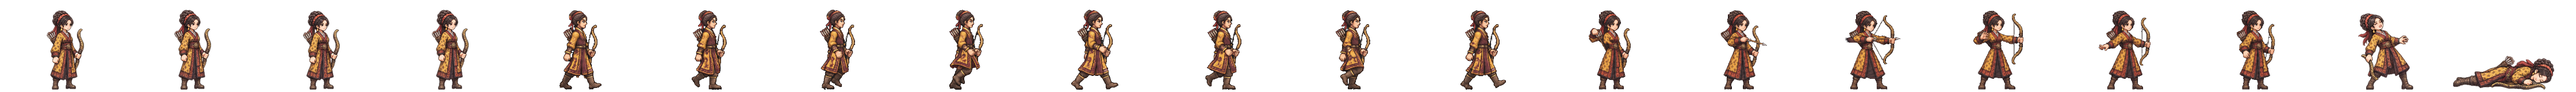
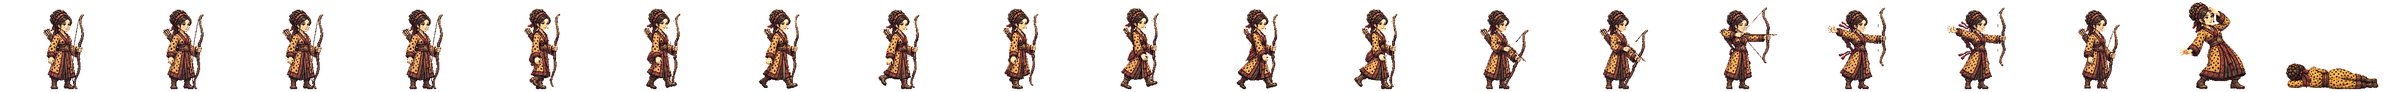
비류나 송비 전투 띠를 새 방식으로: 서기·걷기·활 쏘기 네 칸·쓰러짐·개성 동작 (Codex 그림 · 활 쏘기 칸3 시위를 활 끝에 이어 붙임) · 맞음 칸은 아직 없음
Claude-Session: https://claude.ai/code/session_01TRiuN7s6aDfSnaHxrkctmU

diff --git a/src/realm/data/spritePx.ts b/src/realm/data/spritePx.ts
@@ -1,3 +1,3 @@
 /** public/realm/anim-px/manifest.json 의 사본 — tools/sprite-normalize.mjs 가 만든다 (손으로 고치지 말 것). 칸 [가로, 세로] · feet = 발 줄(칸 위에서 y) · bodyPx = 서 있는 몸 키 */
 import { expandManifest } from './sprite-manifest.ts'
-export const SPRITE_PX: Readonly<Record<string, { readonly cell: readonly [number, number]; readonly feet: number; readonly bodyPx: number; readonly kind: 'general' | 'soldier' | 'folk' | 'crowd'; readonly cells: number }>> = expandManifest<{ readonly cell: readonly [number, number]; readonly feet: number; readonly bodyPx: number; readonly kind: 'general' | 'soldier' | 'folk' | 'crowd'; readonly cells: number }>([{"cell":[166,128],"feet":126,"bodyPx":124,"kind":"soldier","cells":20},{"cell":[116,128],"feet":126,"bodyPx":117,"kind":"soldier","cells":20},{"cell":[127,128],"feet":126,"bodyPx":116,"kind":"soldier","cells":20},{"cell":[269,128],"feet":126,"bodyPx":126,"kind":"soldier","cells":20},{"cell":[503,128],"feet":126,"bodyPx":127,"kind":"soldier","cells":20},{"cell":[614,128],"feet":126,"bodyPx":126,"kind":"soldier","cells":20},{"cell":[200,160],"feet":156,"bodyPx":138,"kind":"general","cells":20},{"cell":[208,160],"feet":155,"bodyPx":138,"kind":"general","cells":20},{"cell":[208,160],"feet":154,"bodyPx":138,"kind":"general","cells":20},{"cell":[304,160],"feet":155,"bodyPx":135,"kind":"general","cells":20},{"cell":[184,160],"feet":156,"bodyPx":138,"kind":"general","cells":20},{"cell":[208,160],"feet":154,"bodyPx":136,"kind":"general","cells":20},{"cell":[232,160],"feet":156,"bodyPx":138,"kind":"general","cells":20},{"cell":[208,160],"feet":156,"bodyPx":138,"kind":"general","cells":20},{"cell":[168,160],"feet":156,"bodyPx":124,"kind":"general","cells":20},{"cell":[216,160],"feet":156,"bodyPx":130,"kind":"general","cells":20},{"cell":[200,160],"feet":156,"bodyPx":116,"kind":"general","cells":20},{"cell":[192,160],"feet":156,"bodyPx":138,"kind":"general","cells":20},{"cell":[208,160],"feet":154,"bodyPx":135,"kind":"general","cells":20},{"cell":[280,160],"feet":156,"bodyPx":138,"kind":"general","cells":20},{"cell":[232,160],"feet":156,"bodyPx":134,"kind":"general","cells":20},{"cell":[144,160],"feet":156,"bodyPx":70,"kind":"general","cells":20},{"cell":[208,160],"feet":156,"bodyPx":70,"kind":"general","cells":20},{"cell":[192,160],"feet":156,"bodyPx":70,"kind":"general","cells":20},{"cell":[240,160],"feet":155,"bodyPx":138,"kind":"general","cells":20},{"cell":[192,160],"feet":156,"bodyPx":128,"kind":"general","cells":20},{"cell":[208,160],"feet":154,"bodyPx":137,"kind":"general","cells":20},{"cell":[216,160],"feet":156,"bodyPx":138,"kind":"general","cells":20},{"cell":[208,160],"feet":156,"bodyPx":134,"kind":"general","cells":20},{"cell":[208,160],"feet":154,"bodyPx":130,"kind":"general","cells":20},{"cell":[248,160],"feet":156,"bodyPx":138,"kind":"general","cells":20},{"cell":[248,160],"feet":155,"bodyPx":138,"kind":"general","cells":20},{"cell":[192,160],"feet":155,"bodyPx":138,"kind":"general","cells":20},{"cell":[192,160],"feet":156,"bodyPx":124,"kind":"general","cells":20},{"cell":[208,160],"feet":154,"bodyPx":131,"kind":"general","cells":20},{"cell":[256,160],"feet":156,"bodyPx":138,"kind":"general","cells":20},{"cell":[240,160],"feet":156,"bodyPx":138,"kind":"general","cells":20},{"cell":[232,160],"feet":156,"bodyPx":73,"kind":"general","cells":20},{"cell":[224,160],"feet":156,"bodyPx":138,"kind":"general","cells":20},{"cell":[224,160],"feet":156,"bodyPx":128,"kind":"general","cells":20},{"cell":[176,160],"feet":156,"bodyPx":129,"kind":"general","cells":20},{"cell":[208,160],"feet":154,"bodyPx":139,"kind":"general","cells":20},{"cell":[232,160],"feet":155,"bodyPx":138,"kind":"general","cells":20},{"cell":[208,160],"feet":156,"bodyPx":132,"kind":"general","cells":20},{"cell":[184,160],"feet":156,"bodyPx":122,"kind":"general","cells":20},{"cell":[280,160],"feet":155,"bodyPx":133,"kind":"general","cells":20},{"cell":[176,160],"feet":156,"bodyPx":70,"kind":"general","cells":20},{"cell":[186,128],"feet":126,"bodyPx":127,"kind":"soldier","cells":20},{"cell":[298,128],"feet":126,"bodyPx":126,"kind":"soldier","cells":20},{"cell":[82,128],"feet":126,"bodyPx":114,"kind":"folk","cells":8},{"cell":[134,128],"feet":126,"bodyPx":119,"kind":"soldier","cells":20},{"cell":[380,128],"feet":126,"bodyPx":124,"kind":"soldier","cells":20},{"cell":[114,128],"feet":126,"bodyPx":115,"kind":"soldier","cells":20},{"cell":[122,128],"feet":126,"bodyPx":114,"kind":"soldier","cells":20},{"cell":[254,128],"feet":126,"bodyPx":128,"kind":"soldier","cells":20},{"cell":[438,128],"feet":126,"bodyPx":126,"kind":"soldier","cells":20},{"cell":[88,128],"feet":126,"bodyPx":113,"kind":"folk","cells":8},{"cell":[100,128],"feet":126,"bodyPx":115,"kind":"folk","cells":8},{"cell":[108,128],"feet":126,"bodyPx":115,"kind":"folk","cells":8},{"cell":[63,128],"feet":126,"bodyPx":113,"kind":"folk","cells":8},{"cell":[69,96],"feet":96,"bodyPx":96,"kind":"crowd","cells":1},{"cell":[54,96],"feet":96,"bodyPx":96,"kind":"crowd","cells":1},{"cell":[47,96],"feet":96,"bodyPx":96,"kind":"crowd","cells":1},{"cell":[49,96],"feet":96,"bodyPx":96,"kind":"crowd","cells":1},{"cell":[57,96],"feet":96,"bodyPx":96,"kind":"crowd","cells":1},{"cell":[55,96],"feet":96,"bodyPx":96,"kind":"crowd","cells":1},{"cell":[45,96],"feet":96,"bodyPx":96,"kind":"crowd","cells":1},{"cell":[53,96],"feet":96,"bodyPx":96,"kind":"crowd","cells":1},{"cell":[64,96],"feet":96,"bodyPx":96,"kind":"crowd","cells":1},{"cell":[264,160],"feet":156,"bodyPx":138,"kind":"general","cells":20},{"cell":[184,160],"feet":156,"bodyPx":124,"kind":"general","cells":20},{"cell":[208,160],"feet":154,"bodyPx":134,"kind":"general","cells":20},{"cell":[224,160],"feet":156,"bodyPx":133,"kind":"general","cells":20},{"cell":[184,160],"feet":156,"bodyPx":137,"kind":"general","cells":20},{"cell":[176,160],"feet":156,"bodyPx":130,"kind":"general","cells":20},{"cell":[216,160],"feet":156,"bodyPx":134,"kind":"general","cells":20},{"cell":[216,160],"feet":156,"bodyPx":132,"kind":"general","cells":20},{"cell":[288,160],"feet":156,"bodyPx":138,"kind":"general","cells":20},{"cell":[192,160],"feet":156,"bodyPx":118,"kind":"general","cells":20},{"cell":[208,160],"feet":154,"bodyPx":132,"kind":"general","cells":20},{"cell":[208,160],"feet":154,"bodyPx":128,"kind":"general","cells":20},{"cell":[240,160],"feet":156,"bodyPx":128,"kind":"general","cells":20},{"cell":[184,160],"feet":156,"bodyPx":132,"kind":"general","cells":20},{"cell":[208,160],"feet":156,"bodyPx":123,"kind":"general","cells":20},{"cell":[192,160],"feet":156,"bodyPx":135,"kind":"general","cells":20},{"cell":[176,160],"feet":156,"bodyPx":116,"kind":"general","cells":20},{"cell":[272,160],"feet":156,"bodyPx":138,"kind":"general","cells":20},{"cell":[176,160],"feet":156,"bodyPx":138,"kind":"general","cells":20},{"cell":[176,160],"feet":156,"bodyPx":122,"kind":"general","cells":20},{"cell":[232,160],"feet":156,"bodyPx":127,"kind":"general","cells":20},{"cell":[184,160],"feet":156,"bodyPx":134,"kind":"general","cells":20},{"cell":[168,160],"feet":156,"bodyPx":138,"kind":"general","cells":20},{"cell":[176,160],"feet":156,"bodyPx":137,"kind":"general","cells":20},{"cell":[184,160],"feet":156,"bodyPx":133,"kind":"general","cells":20}],[["axe",0],["bandit-chief",1],["bandit-club",2],["boat",3],["bow",4],["crossbow",5],["gen-adogan",6],["gen-alpyeong",7],["gen-ara",8],["gen-areum",8],["gen-aryeong",9],["gen-bakdal",8],["gen-baram",8],["gen-bdanbi",10],["gen-beom",11],["gen-beombal",8],["gen-beomi",8],["gen-bira",12],["gen-biryu",13],["gen-budeul",8],["gen-byeol",8],["gen-daemusin",14],["gen-daeso",15],["gen-dallae2",10],["gen-dalli",8],["gen-damul",16],["gen-danbi",8],["gen-dangung",17],["gen-darae",18],["gen-dokmudeom",8],["gen-duman",19],["gen-eomni",8],["gen-eureum",20],["gen-g-bow",21],["gen-g-spear",22],["gen-g-sword",23],["gen-gaennae",8],["gen-gamsil",24],["gen-gaon",18],["gen-geota",13],["gen-geumbawi",10],["gen-geumha",25],["gen-goeun",8],["gen-gom",8],["gen-gomok",13],["gen-gureum",8],["gen-guryema",17],["gen-gwaeyu",12],["gen-haebi",8],["gen-haedal",6],["gen-haesol",8],["gen-halla",26],["gen-heo",8],["gen-hneoul",10],["gen-hogong",27],["gen-hojin",13],["gen-horselord",28],["gen-hwalmi",29],["gen-hyeokgeose",17],["gen-hyeopbo",6],["gen-irang",8],["gen-jibaekho",30],["gen-jinha",31],["gen-jita",32],["gen-jumong",33],["gen-keundol",7],["gen-maehwa",34],["gen-maenun",17],["gen-malgalgi",35],["gen-mari",36],["gen-maro",30],["gen-maryeo",13],["gen-mdallae",8],["gen-mir",6],["gen-mount",37],["gen-mulbeom",26],["gen-mulsae",26],["gen-musoe",27],["gen-noeul",8],["gen-nuri",8],["gen-ocheongan",38],["gen-odi",8],["gen-odogan",6],["gen-ogan",17],["gen-oi",39],["gen-olddaeso",20],["gen-onjo",40],["gen-pidogan",13],["gen-sagong",41],["gen-sdallae",6],["gen-sincheongan",8],["gen-singwigan",27],["gen-sinneoul",8],["gen-sobeol",42],["gen-soebi",8],["gen-soebo",43],["gen-soenun",41],["gen-sogeumbi",26],["gen-songbi",38],["gen-songyang",44],["gen-sori",8],["gen-soseono",45],["gen-suro",17],["gen-tahae",6],["gen-tneoul",8],["gen-w-bow",21],["gen-w-spear",46],["gen-waechief",13],["gen-wan",27],["gen-yeodogan",13],["gen-yucheongan",8],["gen-yusugan",30],["horse",47],["marine",48],["migrant",49],["militia",50],["pike",51],["pirate-captain",52],["pirate-sword",53],["shield",54],["spear",55],["villager-builder",56],["villager-farmer",57],["villager-porter",58],["villager-woman",59],["crowd-b1",60],["crowd-b2",61],["crowd-b3",62],["crowd-b4",63],["crowd-b5",64],["crowd-b6",65],["crowd-f1",60],["crowd-f2",65],["crowd-f3",66],["crowd-f4",67],["crowd-f5",60],["crowd-f6",68],["gen-dalbit",13],["gen-base-g-07-drunk-warrior",17],["gen-base-g-40-anya-adan",13],["gen-base-w-13-young-archer",8],["gen-base-g-03-sea-trader",36],["gen-base-w-10-pirate-captain",41],["gen-base-w-64-miri-dallae",41],["gen-base-g-41-goja-bau",36],["gen-base-g-42-dokro-garam",69],["gen-base-g-09-farmer-conscript",27],["gen-base-w-02-goguryeo-lady",8],["gen-base-w-17-mahan-pearl-diver",8],["gen-base-g-17-saro-isageum",43],["gen-base-g-18-daegaya-king",70],["gen-base-g-35-dabeol-dalgu",13],["gen-base-g-19-sabeol-veteran",27],["gen-base-w-23-usisan-whale-queen",8],["gen-base-g-36-gammun-gamdol",38],["gen-base-g-20-samul-sea-lord",35],["gen-base-g-37-eumjeup-jeup",10],["gen-base-g-38-chopal-palmae",17],["gen-base-w-75-daegaya-soemoe",8],["gen-base-g-45-dabeol-deulgae",10],["gen-base-g-04-jinhan-giant",13],["gen-base-g-08-veteran",13],["gen-base-w-18-jinhan-salt-widow",8],["gen-base-w-12-court-dancer",71],["gen-base-w-83-gyeonji-beodeul",72],["gen-base-w-05-baekje-queen",18],["gen-base-w-21-baekje-court-dancer",10],["gen-base-g-01-master-smith",73],["gen-base-g-93-jomun-solgae",74],["gen-base-g-57-bihwa-neup",36],["gen-base-w-72-eumjeup-beol",8],["gen-base-w-102-garak-dana",41],["gen-base-g-68-baekje-onnuri",13],["gen-base-w-27-mokji-jinha",6],["gen-base-g-22-ungcheon-gomnae",6],["gen-base-g-23-sangdang-soedal",13],["gen-base-g-24-wansan-onsan",6],["gen-base-g-25-balla-keunmoe",27],["gen-base-g-61-heomcheuk-bawi",27],["gen-base-g-88-wander-soeul",38],["gen-base-w-14-feast-spy",8],["gen-base-g-12-silla-youth",75],["gen-base-w-08-mahan-warrior",8],["gen-base-g-62-beonye-hanul",36],["gen-base-g-63-heomcheuk-beogeum",13],["gen-base-g-84-wander-seoneul",13],["gen-base-w-50-siljik-mulga",27],["gen-base-g-46-uga-nureongso",27],["gen-base-w-80-usan-gangchi",41],["gen-base-g-47-guga-sanyanggae",27],["gen-base-w-76-gampyeong-baetsagong",8],["gen-base-g-05-mahan-chieftain",76],["gen-base-g-58-usan-uhae",13],["gen-base-g-27-maek-maekdol",13],["gen-base-w-53-hwanna-gabi",41],["gen-base-w-29-golpo-janmul",30],["gen-base-g-53-baekje-haeru",6],["gen-base-w-71-yeonna-neoul",8],["gen-base-w-79-yangmaek-solmae",8],["gen-base-w-34-chopal-deulme",8],["gen-base-g-44-maga-malgup",77],["gen-base-w-31-dabeol-dalbit",41],["gen-base-g-51-biryuna-mulgyeol",38],["gen-base-g-48-gwanna-musoe",13],["gen-base-g-32-uga-sodu",12],["gen-base-g-49-goguryeo-sona",78],["gen-base-g-30-gwanna-soemoe",38],["gen-base-g-52-tamna-oreum",10],["gen-base-g-29-yeonna-myeongsol",33],["gen-base-w-56-dongokjeo-sogeum",71],["gen-base-g-54-mokji-mahan",12],["gen-base-g-33-jeoga-metdol",17],["gen-base-w-36-baekje-maena",8],["gen-base-w-38-sangdang-bulmae",41],["gen-base-w-39-gosaburi-galmae",8],["gen-base-w-40-mujin-munui",79],["gen-base-w-41-hwanna-beodeul",80],["gen-base-w-43-uga-nuri",35],["gen-base-w-45-tamna-oreumbi",10],["gen-base-g-60-golbeol-golgae",10],["gen-base-g-61-apdok-ap",27],["gen-base-g-62-gammun-gamnamu",6],["gen-base-g-63-chopal-yeoul",30],["gen-base-g-64-michuhol-sogeumkkun",36],["gen-base-g-65-sangdang-soemangchi",38],["gen-base-g-66-geonma-malbalgup",81],["gen-base-g-67-gosaburi-buri",82],["gen-base-g-68-mujin-bitgoeul",10],["gen-base-g-69-goryong-yong",38],["gen-base-g-70-siljik-pado",36],["gen-base-w-81-byeokjin-byeolbit",8],["gen-base-w-46-geonma-maru",8],["gen-base-w-48-mujin-mudeung",8],["gen-base-g-26-gampyeong-gaetbeol",12],["gen-base-g-60-eupcha-hangyeol",83],["gen-base-g-15-shaman-man",27],["gen-base-g-85-wander-ure",30],["gen-base-g-43-hwanna-amnok",13],["gen-base-g-50-bullae-gwaha",84],["gen-base-g-55-saro-bakdal",13],["gen-base-g-56-haseulla-gwahama",6],["gen-base-w-06-buyeo-huntress",26],["gen-base-w-22-dongye-tiger-huntress",8],["gen-base-w-25-bihwa-priestess",8],["gen-base-w-24-apdok-queen",8],["gen-base-w-61-iseo-sinae",8],["gen-base-w-26-iseo-tomboy-general",8],["gen-base-g-59-yangmaek-maekson",85],["gen-aw1-haebi",38],["gen-aw1-soseono",86],["gen-aw1-gamsil",10],["gen-aw1-mir",87],["gen-aw1-dangung",6],["gen-aw1-ara",38],["gen-aw1-jumong",88],["gen-aw1-onjo",89],["gen-aw1-base-w-83-gyeonji-beodeul",17],["gen-aw1-heo",69],["gen-aw1-base-g-38-chopal-palmae",6],["gen-aw1-base-w-25-bihwa-priestess",90],["gen-aw1-sori",91],["gen-aw1-gomok",6],["gen-aw1-irang",17],["gen-aw1-budeul",91],["gen-aw1-gom",36],["gen-aw1-sdallae",6],["gen-aw1-base-w-13-young-archer",6],["gen-aw1-base-w-36-baekje-maena",92],["gen-aw1-base-g-09-farmer-conscript",69],["gen-aw1-base-w-02-goguryeo-lady",93],["gen-aw1-haedal",10],["gen-aw1-hogong",6],["gen-aw1-maehwa",87],["gen-aw1-base-w-06-buyeo-huntress",12],["gen-aw1-base-w-08-mahan-warrior",38],["gen-aw1-base-w-29-golpo-janmul",38],["gen-aw1-base-w-31-dabeol-dalbit",17],["gen-aw1-base-w-38-sangdang-bulmae",91],["gen-aw1-bira",27],["gen-aw1-base-w-53-hwanna-gabi",91],["gen-aw1-base-w-56-dongokjeo-sogeum",87],["gen-aw1-base-w-72-eumjeup-beol",17],["gen-aw1-bdanbi",91],["gen-aw1-beom",10],["gen-aw1-beombal",10],["gen-aw1-byeol",17],["gen-aw1-dalli",87],["gen-aw1-malgalgi",30],["gen-aw1-sincheongan",27]])
+export const SPRITE_PX: Readonly<Record<string, { readonly cell: readonly [number, number]; readonly feet: number; readonly bodyPx: number; readonly kind: 'general' | 'soldier' | 'folk' | 'crowd'; readonly cells: number }>> = expandManifest<{ readonly cell: readonly [number, number]; readonly feet: number; readonly bodyPx: number; readonly kind: 'general' | 'soldier' | 'folk' | 'crowd'; readonly cells: number }>([{"cell":[166,128],"feet":126,"bodyPx":124,"kind":"soldier","cells":20},{"cell":[116,128],"feet":126,"bodyPx":117,"kind":"soldier","cells":20},{"cell":[127,128],"feet":126,"bodyPx":116,"kind":"soldier","cells":20},{"cell":[269,128],"feet":126,"bodyPx":126,"kind":"soldier","cells":20},{"cell":[503,128],"feet":126,"bodyPx":127,"kind":"soldier","cells":20},{"cell":[614,128],"feet":126,"bodyPx":126,"kind":"soldier","cells":20},{"cell":[200,160],"feet":156,"bodyPx":138,"kind":"general","cells":20},{"cell":[208,160],"feet":155,"bodyPx":138,"kind":"general","cells":20},{"cell":[208,160],"feet":154,"bodyPx":138,"kind":"general","cells":20},{"cell":[304,160],"feet":155,"bodyPx":135,"kind":"general","cells":20},{"cell":[184,160],"feet":156,"bodyPx":138,"kind":"general","cells":20},{"cell":[208,160],"feet":154,"bodyPx":136,"kind":"general","cells":20},{"cell":[232,160],"feet":156,"bodyPx":138,"kind":"general","cells":20},{"cell":[208,160],"feet":156,"bodyPx":138,"kind":"general","cells":20},{"cell":[168,160],"feet":156,"bodyPx":124,"kind":"general","cells":20},{"cell":[216,160],"feet":156,"bodyPx":130,"kind":"general","cells":20},{"cell":[200,160],"feet":156,"bodyPx":116,"kind":"general","cells":20},{"cell":[192,160],"feet":156,"bodyPx":138,"kind":"general","cells":20},{"cell":[208,160],"feet":154,"bodyPx":135,"kind":"general","cells":20},{"cell":[280,160],"feet":156,"bodyPx":138,"kind":"general","cells":20},{"cell":[232,160],"feet":156,"bodyPx":134,"kind":"general","cells":20},{"cell":[144,160],"feet":156,"bodyPx":70,"kind":"general","cells":20},{"cell":[208,160],"feet":156,"bodyPx":70,"kind":"general","cells":20},{"cell":[192,160],"feet":156,"bodyPx":70,"kind":"general","cells":20},{"cell":[240,160],"feet":155,"bodyPx":138,"kind":"general","cells":20},{"cell":[192,160],"feet":156,"bodyPx":128,"kind":"general","cells":20},{"cell":[208,160],"feet":154,"bodyPx":137,"kind":"general","cells":20},{"cell":[216,160],"feet":156,"bodyPx":138,"kind":"general","cells":20},{"cell":[208,160],"feet":156,"bodyPx":134,"kind":"general","cells":20},{"cell":[208,160],"feet":154,"bodyPx":130,"kind":"general","cells":20},{"cell":[248,160],"feet":156,"bodyPx":138,"kind":"general","cells":20},{"cell":[248,160],"feet":155,"bodyPx":138,"kind":"general","cells":20},{"cell":[192,160],"feet":155,"bodyPx":138,"kind":"general","cells":20},{"cell":[192,160],"feet":156,"bodyPx":124,"kind":"general","cells":20},{"cell":[208,160],"feet":154,"bodyPx":131,"kind":"general","cells":20},{"cell":[256,160],"feet":156,"bodyPx":138,"kind":"general","cells":20},{"cell":[240,160],"feet":156,"bodyPx":138,"kind":"general","cells":20},{"cell":[232,160],"feet":156,"bodyPx":73,"kind":"general","cells":20},{"cell":[224,160],"feet":156,"bodyPx":138,"kind":"general","cells":20},{"cell":[224,160],"feet":156,"bodyPx":128,"kind":"general","cells":20},{"cell":[176,160],"feet":156,"bodyPx":129,"kind":"general","cells":20},{"cell":[208,160],"feet":154,"bodyPx":139,"kind":"general","cells":20},{"cell":[232,160],"feet":155,"bodyPx":138,"kind":"general","cells":20},{"cell":[208,160],"feet":156,"bodyPx":132,"kind":"general","cells":20},{"cell":[184,160],"feet":156,"bodyPx":122,"kind":"general","cells":20},{"cell":[280,160],"feet":155,"bodyPx":133,"kind":"general","cells":20},{"cell":[176,160],"feet":156,"bodyPx":70,"kind":"general","cells":20},{"cell":[186,128],"feet":126,"bodyPx":127,"kind":"soldier","cells":20},{"cell":[298,128],"feet":126,"bodyPx":126,"kind":"soldier","cells":20},{"cell":[82,128],"feet":126,"bodyPx":114,"kind":"folk","cells":8},{"cell":[134,128],"feet":126,"bodyPx":119,"kind":"soldier","cells":20},{"cell":[380,128],"feet":126,"bodyPx":124,"kind":"soldier","cells":20},{"cell":[114,128],"feet":126,"bodyPx":115,"kind":"soldier","cells":20},{"cell":[122,128],"feet":126,"bodyPx":114,"kind":"soldier","cells":20},{"cell":[254,128],"feet":126,"bodyPx":128,"kind":"soldier","cells":20},{"cell":[438,128],"feet":126,"bodyPx":126,"kind":"soldier","cells":20},{"cell":[88,128],"feet":126,"bodyPx":113,"kind":"folk","cells":8},{"cell":[100,128],"feet":126,"bodyPx":115,"kind":"folk","cells":8},{"cell":[108,128],"feet":126,"bodyPx":115,"kind":"folk","cells":8},{"cell":[63,128],"feet":126,"bodyPx":113,"kind":"folk","cells":8},{"cell":[69,96],"feet":96,"bodyPx":96,"kind":"crowd","cells":1},{"cell":[54,96],"feet":96,"bodyPx":96,"kind":"crowd","cells":1},{"cell":[47,96],"feet":96,"bodyPx":96,"kind":"crowd","cells":1},{"cell":[49,96],"feet":96,"bodyPx":96,"kind":"crowd","cells":1},{"cell":[57,96],"feet":96,"bodyPx":96,"kind":"crowd","cells":1},{"cell":[55,96],"feet":96,"bodyPx":96,"kind":"crowd","cells":1},{"cell":[45,96],"feet":96,"bodyPx":96,"kind":"crowd","cells":1},{"cell":[53,96],"feet":96,"bodyPx":96,"kind":"crowd","cells":1},{"cell":[64,96],"feet":96,"bodyPx":96,"kind":"crowd","cells":1},{"cell":[264,160],"feet":156,"bodyPx":138,"kind":"general","cells":20},{"cell":[184,160],"feet":156,"bodyPx":124,"kind":"general","cells":20},{"cell":[208,160],"feet":154,"bodyPx":134,"kind":"general","cells":20},{"cell":[224,160],"feet":156,"bodyPx":133,"kind":"general","cells":20},{"cell":[184,160],"feet":156,"bodyPx":137,"kind":"general","cells":20},{"cell":[176,160],"feet":156,"bodyPx":130,"kind":"general","cells":20},{"cell":[216,160],"feet":156,"bodyPx":134,"kind":"general","cells":20},{"cell":[216,160],"feet":156,"bodyPx":132,"kind":"general","cells":20},{"cell":[288,160],"feet":156,"bodyPx":138,"kind":"general","cells":20},{"cell":[192,160],"feet":156,"bodyPx":118,"kind":"general","cells":20},{"cell":[208,160],"feet":154,"bodyPx":132,"kind":"general","cells":20},{"cell":[208,160],"feet":154,"bodyPx":128,"kind":"general","cells":20},{"cell":[240,160],"feet":156,"bodyPx":128,"kind":"general","cells":20},{"cell":[184,160],"feet":156,"bodyPx":132,"kind":"general","cells":20},{"cell":[208,160],"feet":156,"bodyPx":123,"kind":"general","cells":20},{"cell":[192,160],"feet":156,"bodyPx":135,"kind":"general","cells":20},{"cell":[176,160],"feet":156,"bodyPx":116,"kind":"general","cells":20},{"cell":[272,160],"feet":156,"bodyPx":138,"kind":"general","cells":20},{"cell":[176,160],"feet":156,"bodyPx":138,"kind":"general","cells":20},{"cell":[176,160],"feet":156,"bodyPx":122,"kind":"general","cells":20},{"cell":[232,160],"feet":156,"bodyPx":127,"kind":"general","cells":20},{"cell":[184,160],"feet":156,"bodyPx":134,"kind":"general","cells":20},{"cell":[168,160],"feet":156,"bodyPx":138,"kind":"general","cells":20},{"cell":[176,160],"feet":156,"bodyPx":137,"kind":"general","cells":20},{"cell":[184,160],"feet":156,"bodyPx":133,"kind":"general","cells":20}],[["axe",0],["bandit-chief",1],["bandit-club",2],["boat",3],["bow",4],["crossbow",5],["gen-adogan",6],["gen-alpyeong",7],["gen-ara",8],["gen-areum",8],["gen-aryeong",9],["gen-bakdal",8],["gen-baram",8],["gen-bdanbi",10],["gen-beom",11],["gen-beombal",8],["gen-beomi",8],["gen-bira",12],["gen-biryu",13],["gen-budeul",8],["gen-byeol",8],["gen-daemusin",14],["gen-daeso",15],["gen-dallae2",10],["gen-dalli",8],["gen-damul",16],["gen-danbi",8],["gen-dangung",17],["gen-darae",18],["gen-dokmudeom",8],["gen-duman",19],["gen-eomni",8],["gen-eureum",20],["gen-g-bow",21],["gen-g-spear",22],["gen-g-sword",23],["gen-gaennae",8],["gen-gamsil",24],["gen-gaon",18],["gen-geota",13],["gen-geumbawi",10],["gen-geumha",25],["gen-goeun",8],["gen-gom",8],["gen-gomok",13],["gen-gureum",8],["gen-guryema",17],["gen-gwaeyu",12],["gen-haebi",8],["gen-haedal",6],["gen-haesol",8],["gen-halla",26],["gen-heo",8],["gen-hneoul",10],["gen-hogong",27],["gen-hojin",13],["gen-horselord",28],["gen-hwalmi",29],["gen-hyeokgeose",17],["gen-hyeopbo",6],["gen-irang",8],["gen-jibaekho",30],["gen-jinha",31],["gen-jita",32],["gen-jumong",33],["gen-keundol",7],["gen-maehwa",34],["gen-maenun",17],["gen-malgalgi",35],["gen-mari",36],["gen-maro",30],["gen-maryeo",13],["gen-mdallae",8],["gen-mir",6],["gen-mount",37],["gen-mulbeom",26],["gen-mulsae",26],["gen-musoe",27],["gen-noeul",8],["gen-nuri",8],["gen-ocheongan",38],["gen-odi",8],["gen-odogan",6],["gen-ogan",17],["gen-oi",39],["gen-olddaeso",20],["gen-onjo",40],["gen-pidogan",13],["gen-sagong",41],["gen-sdallae",6],["gen-sincheongan",8],["gen-singwigan",27],["gen-sinneoul",8],["gen-sobeol",42],["gen-soebi",8],["gen-soebo",43],["gen-soenun",41],["gen-sogeumbi",26],["gen-songbi",8],["gen-songyang",44],["gen-sori",8],["gen-soseono",45],["gen-suro",17],["gen-tahae",6],["gen-tneoul",8],["gen-w-bow",21],["gen-w-spear",46],["gen-waechief",13],["gen-wan",27],["gen-yeodogan",13],["gen-yucheongan",8],["gen-yusugan",30],["horse",47],["marine",48],["migrant",49],["militia",50],["pike",51],["pirate-captain",52],["pirate-sword",53],["shield",54],["spear",55],["villager-builder",56],["villager-farmer",57],["villager-porter",58],["villager-woman",59],["crowd-b1",60],["crowd-b2",61],["crowd-b3",62],["crowd-b4",63],["crowd-b5",64],["crowd-b6",65],["crowd-f1",60],["crowd-f2",65],["crowd-f3",66],["crowd-f4",67],["crowd-f5",60],["crowd-f6",68],["gen-dalbit",13],["gen-base-g-07-drunk-warrior",17],["gen-base-g-40-anya-adan",13],["gen-base-w-13-young-archer",8],["gen-base-g-03-sea-trader",36],["gen-base-w-10-pirate-captain",41],["gen-base-w-64-miri-dallae",41],["gen-base-g-41-goja-bau",36],["gen-base-g-42-dokro-garam",69],["gen-base-g-09-farmer-conscript",27],["gen-base-w-02-goguryeo-lady",8],["gen-base-w-17-mahan-pearl-diver",8],["gen-base-g-17-saro-isageum",43],["gen-base-g-18-daegaya-king",70],["gen-base-g-35-dabeol-dalgu",13],["gen-base-g-19-sabeol-veteran",27],["gen-base-w-23-usisan-whale-queen",8],["gen-base-g-36-gammun-gamdol",38],["gen-base-g-20-samul-sea-lord",35],["gen-base-g-37-eumjeup-jeup",10],["gen-base-g-38-chopal-palmae",17],["gen-base-w-75-daegaya-soemoe",8],["gen-base-g-45-dabeol-deulgae",10],["gen-base-g-04-jinhan-giant",13],["gen-base-g-08-veteran",13],["gen-base-w-18-jinhan-salt-widow",8],["gen-base-w-12-court-dancer",71],["gen-base-w-83-gyeonji-beodeul",72],["gen-base-w-05-baekje-queen",18],["gen-base-w-21-baekje-court-dancer",10],["gen-base-g-01-master-smith",73],["gen-base-g-93-jomun-solgae",74],["gen-base-g-57-bihwa-neup",36],["gen-base-w-72-eumjeup-beol",8],["gen-base-w-102-garak-dana",41],["gen-base-g-68-baekje-onnuri",13],["gen-base-w-27-mokji-jinha",6],["gen-base-g-22-ungcheon-gomnae",6],["gen-base-g-23-sangdang-soedal",13],["gen-base-g-24-wansan-onsan",6],["gen-base-g-25-balla-keunmoe",27],["gen-base-g-61-heomcheuk-bawi",27],["gen-base-g-88-wander-soeul",38],["gen-base-w-14-feast-spy",8],["gen-base-g-12-silla-youth",75],["gen-base-w-08-mahan-warrior",8],["gen-base-g-62-beonye-hanul",36],["gen-base-g-63-heomcheuk-beogeum",13],["gen-base-g-84-wander-seoneul",13],["gen-base-w-50-siljik-mulga",27],["gen-base-g-46-uga-nureongso",27],["gen-base-w-80-usan-gangchi",41],["gen-base-g-47-guga-sanyanggae",27],["gen-base-w-76-gampyeong-baetsagong",8],["gen-base-g-05-mahan-chieftain",76],["gen-base-g-58-usan-uhae",13],["gen-base-g-27-maek-maekdol",13],["gen-base-w-53-hwanna-gabi",41],["gen-base-w-29-golpo-janmul",30],["gen-base-g-53-baekje-haeru",6],["gen-base-w-71-yeonna-neoul",8],["gen-base-w-79-yangmaek-solmae",8],["gen-base-w-34-chopal-deulme",8],["gen-base-g-44-maga-malgup",77],["gen-base-w-31-dabeol-dalbit",41],["gen-base-g-51-biryuna-mulgyeol",38],["gen-base-g-48-gwanna-musoe",13],["gen-base-g-32-uga-sodu",12],["gen-base-g-49-goguryeo-sona",78],["gen-base-g-30-gwanna-soemoe",38],["gen-base-g-52-tamna-oreum",10],["gen-base-g-29-yeonna-myeongsol",33],["gen-base-w-56-dongokjeo-sogeum",71],["gen-base-g-54-mokji-mahan",12],["gen-base-g-33-jeoga-metdol",17],["gen-base-w-36-baekje-maena",8],["gen-base-w-38-sangdang-bulmae",41],["gen-base-w-39-gosaburi-galmae",8],["gen-base-w-40-mujin-munui",79],["gen-base-w-41-hwanna-beodeul",80],["gen-base-w-43-uga-nuri",35],["gen-base-w-45-tamna-oreumbi",10],["gen-base-g-60-golbeol-golgae",10],["gen-base-g-61-apdok-ap",27],["gen-base-g-62-gammun-gamnamu",6],["gen-base-g-63-chopal-yeoul",30],["gen-base-g-64-michuhol-sogeumkkun",36],["gen-base-g-65-sangdang-soemangchi",38],["gen-base-g-66-geonma-malbalgup",81],["gen-base-g-67-gosaburi-buri",82],["gen-base-g-68-mujin-bitgoeul",10],["gen-base-g-69-goryong-yong",38],["gen-base-g-70-siljik-pado",36],["gen-base-w-81-byeokjin-byeolbit",8],["gen-base-w-46-geonma-maru",8],["gen-base-w-48-mujin-mudeung",8],["gen-base-g-26-gampyeong-gaetbeol",12],["gen-base-g-60-eupcha-hangyeol",83],["gen-base-g-15-shaman-man",27],["gen-base-g-85-wander-ure",30],["gen-base-g-43-hwanna-amnok",13],["gen-base-g-50-bullae-gwaha",84],["gen-base-g-55-saro-bakdal",13],["gen-base-g-56-haseulla-gwahama",6],["gen-base-w-06-buyeo-huntress",26],["gen-base-w-22-dongye-tiger-huntress",8],["gen-base-w-25-bihwa-priestess",8],["gen-base-w-24-apdok-queen",8],["gen-base-w-61-iseo-sinae",8],["gen-base-w-26-iseo-tomboy-general",8],["gen-base-g-59-yangmaek-maekson",85],["gen-aw1-haebi",38],["gen-aw1-soseono",86],["gen-aw1-gamsil",10],["gen-aw1-mir",87],["gen-aw1-dangung",6],["gen-aw1-ara",38],["gen-aw1-jumong",88],["gen-aw1-onjo",89],["gen-aw1-base-w-83-gyeonji-beodeul",17],["gen-aw1-heo",69],["gen-aw1-base-g-38-chopal-palmae",6],["gen-aw1-base-w-25-bihwa-priestess",90],["gen-aw1-sori",91],["gen-aw1-gomok",6],["gen-aw1-irang",17],["gen-aw1-budeul",91],["gen-aw1-gom",36],["gen-aw1-sdallae",6],["gen-aw1-base-w-13-young-archer",6],["gen-aw1-base-w-36-baekje-maena",92],["gen-aw1-base-g-09-farmer-conscript",69],["gen-aw1-base-w-02-goguryeo-lady",93],["gen-aw1-haedal",10],["gen-aw1-hogong",6],["gen-aw1-maehwa",87],["gen-aw1-base-w-06-buyeo-huntress",12],["gen-aw1-base-w-08-mahan-warrior",38],["gen-aw1-base-w-29-golpo-janmul",38],["gen-aw1-base-w-31-dabeol-dalbit",17],["gen-aw1-base-w-38-sangdang-bulmae",91],["gen-aw1-bira",27],["gen-aw1-base-w-53-hwanna-gabi",91],["gen-aw1-base-w-56-dongokjeo-sogeum",87],["gen-aw1-base-w-72-eumjeup-beol",17],["gen-aw1-bdanbi",91],["gen-aw1-beom",10],["gen-aw1-beombal",10],["gen-aw1-byeol",17],["gen-aw1-dalli",87],["gen-aw1-malgalgi",30],["gen-aw1-sincheongan",27]])

diff --git a/src/duel/view.ts b/src/duel/view.ts
@@ -100,7 +100,7 @@ const crowdFront = [1, 2, 3, 4, 5, 6].map((i) => img(`realm/duel/crowd/b${i}.png
 const crowdReady = (set: HTMLImageElement[]): boolean => set.every((im) => im.complete && im.naturalWidth > 0)
 const pxMode = cfg.px !== false && params.get('px') !== '0'
 /** 겨루기 전용 옛 띠(duel/sprites) 대신 열전과 같은 도트 띠(anim-px)를 쓰는 장수 — 두 판에서 같은 모습 · 서기 계획·쓰러지는 칸도 같다 (11-23 범 · 매화 · 달빛 · 11-24 해비 · 아룸) */
-const PX_DUEL: ReadonlySet<string> = new Set(['beom', 'maehwa', 'base-w-31-dabeol-dalbit', 'haebi', 'areum', 'base-w-13-young-archer', 'base-w-10-pirate-captain', 'base-w-17-mahan-pearl-diver', 'base-w-06-buyeo-huntress', 'base-w-64-miri-dallae', 'ara', 'base-w-22-dongye-tiger-huntress', 'noeul', 'sagong', 'sinneoul', 'heo', 'base-w-08-mahan-warrior', 'base-w-23-usisan-whale-queen', 'base-w-26-iseo-tomboy-general', 'base-w-72-eumjeup-beol', 'tneoul', 'odi', 'base-w-76-gampyeong-baetsagong', 'base-w-34-chopal-deulme', 'base-w-102-garak-dana', 'base-w-36-baekje-maena', 'base-w-56-dongokjeo-sogeum', 'budeul', 'base-w-53-hwanna-gabi', 'base-w-18-jinhan-salt-widow', 'beombal', 'irang', 'sogeumbi', 'baram', 'byeol', 'base-w-71-yeonna-neoul', 'base-w-39-gosaburi-galmae', 'base-w-41-hwanna-beodeul', 'base-w-79-yangmaek-solmae', 'base-w-46-geonma-maru', 'base-w-48-mujin-mudeung', 'base-w-80-usan-gangchi', 'base-w-81-byeokjin-byeolbit', 'beomi', 'danbi', 'dalli', 'gureum', 'haesol', 'soenun', 'eomni', 'mulbeom', 'mulsae', 'bakdal', 'darae', 'sori', 'base-w-12-court-dancer', 'hwalmi', 'gaennae', 'dokmudeom', 'base-w-14-feast-spy', 'base-w-25-bihwa-priestess', 'sincheongan', 'base-w-40-mujin-munui', 'halla', 'yucheongan', 'base-w-02-goguryeo-lady', 'gaon', 'base-w-24-apdok-queen', 'base-w-61-iseo-sinae', 'goeun', 'base-w-05-baekje-queen', 'mdallae', 'nuri', 'base-w-75-daegaya-soemoe', 'soebi', 'base-w-38-sangdang-bulmae', 'gom'])
+const PX_DUEL: ReadonlySet<string> = new Set(['beom', 'maehwa', 'base-w-31-dabeol-dalbit', 'haebi', 'areum', 'base-w-13-young-archer', 'base-w-10-pirate-captain', 'base-w-17-mahan-pearl-diver', 'base-w-06-buyeo-huntress', 'base-w-64-miri-dallae', 'ara', 'base-w-22-dongye-tiger-huntress', 'noeul', 'sagong', 'sinneoul', 'heo', 'base-w-08-mahan-warrior', 'base-w-23-usisan-whale-queen', 'base-w-26-iseo-tomboy-general', 'base-w-72-eumjeup-beol', 'tneoul', 'odi', 'base-w-76-gampyeong-baetsagong', 'base-w-34-chopal-deulme', 'base-w-102-garak-dana', 'base-w-36-baekje-maena', 'base-w-56-dongokjeo-sogeum', 'budeul', 'base-w-53-hwanna-gabi', 'base-w-18-jinhan-salt-widow', 'beombal', 'irang', 'sogeumbi', 'baram', 'byeol', 'base-w-71-yeonna-neoul', 'base-w-39-gosaburi-galmae', 'base-w-41-hwanna-beodeul', 'base-w-79-yangmaek-solmae', 'base-w-46-geonma-maru', 'base-w-48-mujin-mudeung', 'base-w-80-usan-gangchi', 'base-w-81-byeokjin-byeolbit', 'beomi', 'danbi', 'dalli', 'gureum', 'haesol', 'soenun', 'eomni', 'mulbeom', 'mulsae', 'bakdal', 'darae', 'sori', 'base-w-12-court-dancer', 'hwalmi', 'gaennae', 'dokmudeom', 'base-w-14-feast-spy', 'base-w-25-bihwa-priestess', 'sincheongan', 'base-w-40-mujin-munui', 'halla', 'yucheongan', 'base-w-02-goguryeo-lady', 'gaon', 'base-w-24-apdok-queen', 'base-w-61-iseo-sinae', 'goeun', 'base-w-05-baekje-queen', 'mdallae', 'nuri', 'base-w-75-daegaya-soemoe', 'soebi', 'base-w-38-sangdang-bulmae', 'gom', 'songbi'])
 /** 띠 그림 — 기본은 anim-px(도트 규격) 먼저, 없으면 옛 띠로 (img 의 onerror 가 갈아 끼운다) */
 const strip = (s: string): HTMLImageElement => pxMode
   ? DUEL_ATLASES[s] !== undefined && !PX_DUEL.has(s) ? img(`realm/duel/sprites/gen-${s}.png`, `realm/anim-px/gen-${s}.png`)

diff --git a/src/tune/params.ts b/src/tune/params.ts
@@ -1537,6 +1537,7 @@ export const HAEBI_IDLE = {
     soebi: { cells: 38, base: [0, 1], hold: 2.4, fall: [18, 20, 21, 19], quirk: [22, 23, 24, 25], quirkTimes: [.3, .32, .4, .28], attack: { cells: [26, 27, 28, 29, 30, 31, 32, 33], times: [.09, .08, .11, .05, .15, .07, .08, .12], hit: 4 }, hurt: [34, 35], rise: [36, 37], xGeom: { h: 224, root: 92, foot: 216 } },
     'base-w-38-sangdang-bulmae': { cells: 38, base: [0, 1], hold: 2.4, fall: [18, 20, 21, 19], quirk: [22, 23, 24, 25], quirkTimes: [.3, .32, .4, .28], attack: { cells: [26, 27, 28, 29, 30, 31, 32, 33], times: [.09, .08, .11, .05, .15, .07, .08, .12], hit: 4 }, hurt: [34, 35], rise: [36, 37], xGeom: { h: 224, root: 92, foot: 216 } },
     gom: { cells: 38, base: [0, 1], hold: 2.4, fall: [18, 20, 21, 19], quirk: [22, 23, 24, 25], quirkTimes: [.3, .32, .4, .28], attack: { cells: [26, 27, 28, 29, 30, 31, 32, 33], times: [.09, .08, .11, .05, .15, .07, .08, .12], hit: 4 }, hurt: [34, 35], rise: [36, 37], xGeom: { h: 224, root: 92, foot: 216 } },
+    songbi: { cells: 26, base: [0, 1], hold: 2.4, fall: [18, 20, 21, 19], quirk: [22, 23, 24, 25], quirkTimes: [.28, .3, .42, .25] },
   },
 } as const
 export const HAEBI_ANIM = {
